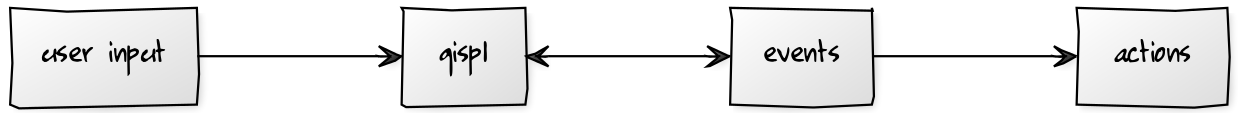
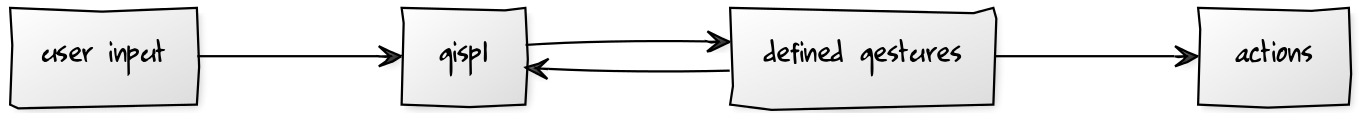
tidy up implementation

diff --git a/thesis/10-implementation.md b/thesis/10-implementation.md
@@ -8,22 +8,22 @@ As already mentioned, for some kind of an input to be recognized as a gesture, w
 
 * performing an action based on a recognized gesture -- this is the responsibility of the user implementing a gesture
 
-Although the most important part of GISpL.js is to recognize user input as a gesture, it also needs to be able to accept gesture definitions, and to allow a user to assign a gesture action. The first part is not difficult because GISpL uses JSON as a definition language, and as described by the JSON author, it is just a subset of JavaScript [@jsonrfc]. Therefore, it is not even necessary for a definition to be in JSON format; a simple JavaScript object is suitable as well.
+Although the most important part of GISpL.js is to recognize user input as a gesture, it also needs to be able to accept gesture definitions, and to allow a user to assign a gesture action. The first part is not difficult because GISpL uses JSON as a definition language, and as described by the JSON author, JSON is just a subset of JavaScript [@jsonrfc]. Therefore, parsing JSON is trivial, and additionally it is not even necessary for a definition to be in JSON format; a simple JavaScript object is suitable as well.
 
-For the last part, GISpL.js was designed and built in a way that is typical for JavaScript and the browser. Actions based on user input are usually assigned as callback functions or listeners for a particular event. For instance, every page node, e.g. an html tag, inherit from EventTarget [@eventtarget] and thus contain `addEventListener` and similar methods which can be used to assign actions based on user clicks, mouse movement, scroll etc. Libraries such as jQuery have further simplified this by using simple `on` and `off` methods that can assign built in and custom events to page elements.
+For the last part, GISpL.js was designed and built in a way that is typical for JavaScript and the browser. Actions based on user input are usually assigned as callback functions or listeners for a particular event. For instance, every page node, e.g. an html tag, inherits from EventTarget [@eventtarget] and thus contains `addEventListener` and similar methods which can be used to assign actions based on user clicks, mouse movement, scroll etc. Libraries such as jQuery have further simplified this by using simple `on` and `off` methods that can assign built in and custom events to page elements.
 
-GISpL.js draws inspiration from jQuery and many other libraries by using `on` and `off` methods to assign events to page elements, with the events in this case representing gestures. As shown in Figure {@fig:overview}, a user is responsible for defining a gesture according to the GISpL specification, specifying the elements for the gesture and action that will be executed once the gesture is recognized, and GISpL.js will take care of recognizing user input and executing the said actions.
+GISpL.js draws inspiration from jQuery and many other libraries by defining a gispl object that contains a collection or list of elements (so called array-like objects). Additionally, the gispl object contains `on` and `off` methods to add callback functions to the elements in the collection, with the events in this case representing gestures. As shown in Figure {@fig:overview}, a user is responsible for defining a gesture according to the GISpL specification that is plugged into GISpL.js; it also needs to specify the elements for the gesture and and action, or actions, that will be executed once the gesture is recognized; GISpL.js will take care of recognizing user input and executing all of the defined actions for a particular element.
 
 ![High level overview of how GISpL.js works](./figures/overview.png){#fig:overview}
 
-Reusing the gesture definition example from the introduction, a user could implement a gesture as follows:
+Reusing the gesture definition example from the [Introduction](#introduction), a user could implement a gesture as follows:
 
 ```
 var twoFingeredMotion = {
-    "name": "two-fingered-motion",
-    "features": [
-        {"type": "Motion"},
-        {"type": "Count", "constraints": [2,2]}
+    name: "two-fingered-motion",
+    features: [
+        {type: "Motion"},
+        {type": Count, constraints: [2,2]}
     ]
 };
 
@@ -34,7 +34,7 @@ gispl('img').on(twoFingeredMotion.name, function () {
 });
 ```
 
-In this case, once a two-fingered motion gesture over an image on the page is recognized, a simple message will be logged to the console.
+In this simple example, once a two-fingered motion gesture over any image on the page is recognized, a simple message stating this fact will be logged to the console.
 
 ## Extending Tuio.js
 ## Recognizing gestures
